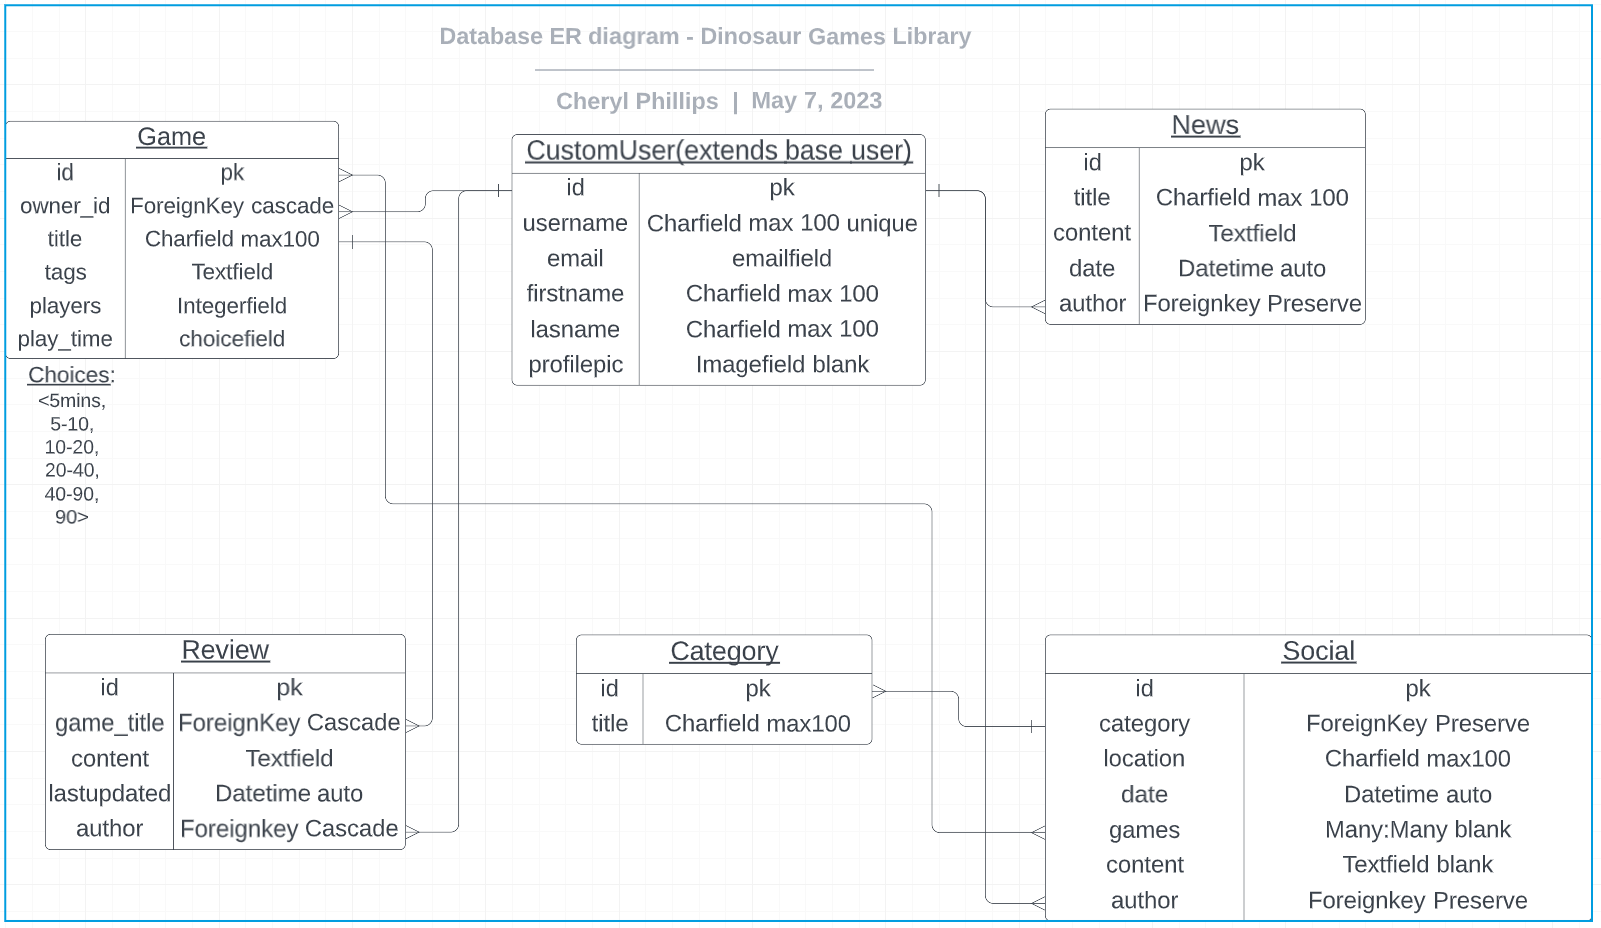
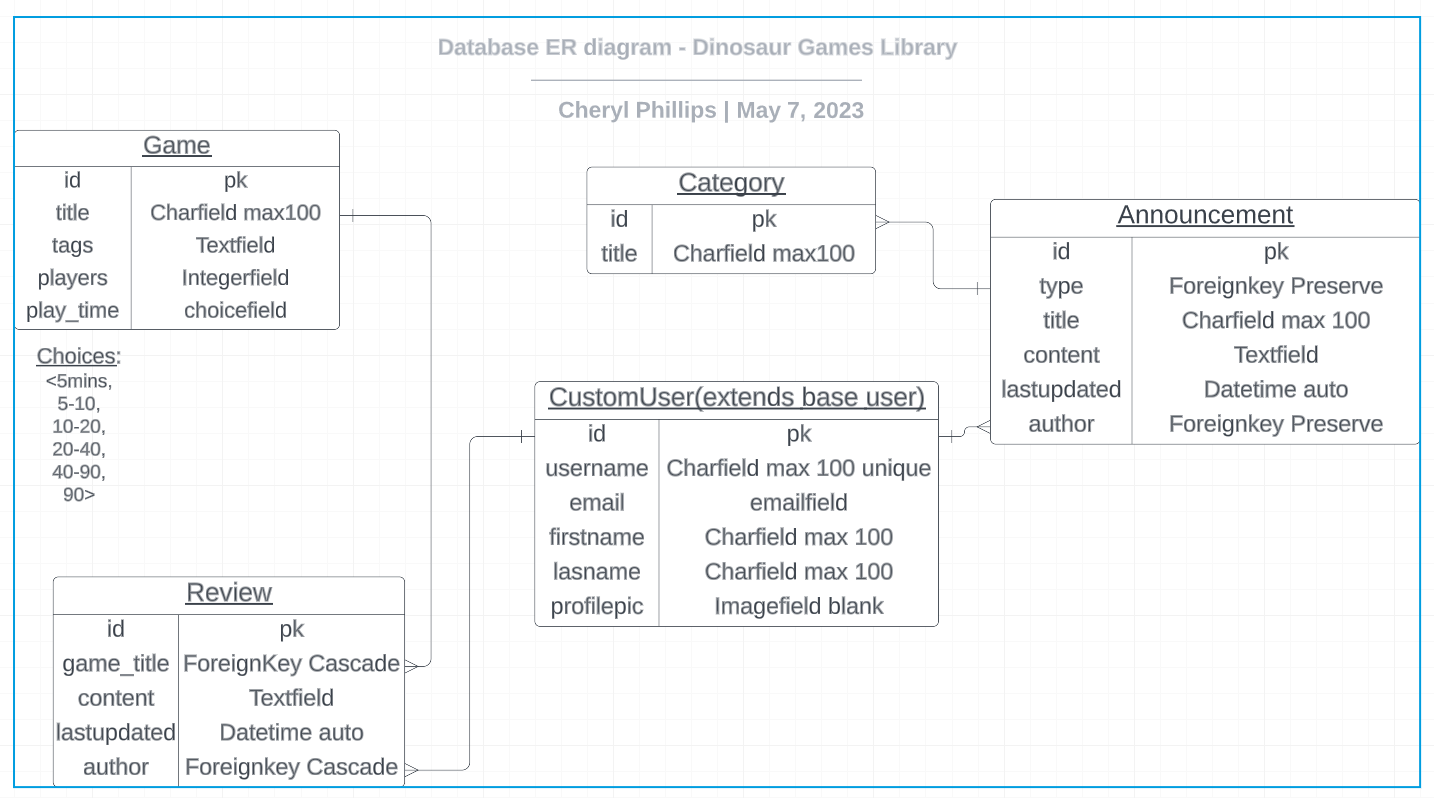
doc>explain changes to games permissions

diff --git a/README.md b/README.md
@@ -2,7 +2,8 @@
 
 ## Concept
 
-My local boardgames group meet each week with members bringing along their own games to share with the group. This can lead to sometimes a limited selection of games on offer, or not knowing which games other members have that the group would like to play. The Dinosaur Games Library app provides a solution to this by allowing members of the group to list the games that they own and are happy to share in an online library available for other members to view and search. Requests could then be made ahead of social events for particular games that the group would like to play to be brought along that week. Additional features of the app would allow admin users to advertise the group to visitors to the site and publicise social events to gain a wider membership, add important group updates to the front page as these can sometimes be missed in the Facebook group, and allow for an 'add to social' button for games to be automatically requested via the app at a particular social event.
+As a boardgame enthusiast, it can be hard to decide which game to try next. The Dinosaur Games Library will be a resource for the tabletop games community to add games that they have played and enjoyed to share their views with other gamers. Registered members will be able to post new games that they have found with details and reviews, visitors to the site will be able to view the library to find recommendations for games that they might enjoy playing. Administrators of the site will be able to delete any games from the listings that become out of print or are found to be duplicates.
+In addition to the games listings, announcements could also be made by the admin team detailing social events for gaming meet ups and news for the tabletop gaming community. 
 
 ## Scope
 
@@ -46,7 +47,7 @@ So I have followed the [rest-auth documentation](https://dj-rest-auth.readthedoc
 
 | Tasks this sprint | Sprint Overview |
 | ----------------- | --------------- |
-| Create Game model and serializers. Add views for create, update, delete, listview and detailed view. Create permissions for post owner. Expose endpoints for create, edit and delete game. Add search and filter for game features. | ![sprint2](/documentation/readme/sprint2.png) |
+| Create Game model and serializers. Add views for create and edit games, view all and view details. Delete view for administrators. | ![sprint2](/documentation/readme/sprint2.png) |
 
 ### The Game Model
 
@@ -54,25 +55,16 @@ This model will hold all member game instances. In a change from the planned ERD
 
 ### Viewing the library and creating a listing
 
-All authenticated members will be able to view the full list of games in the library as well as add their own. For this a single endpoint can be created using the generic `ListCreate` view with the permission class of `IsAuthenticated`. 
+All visitors will be able to view but make no changes to the full list of games in the library, authenticated members are able to add to the current list of games. For this a single endpoint can be created using the generic `ListCreate` view with the permission class of `IsAuthenticatedOrReadOnly`. 
 The serializer extends the standard model serializer class and imports the Game model and all model fields for serialization. 
 
-### Listing games owned by a member
+### Detailed view of games and editing as a member
 
-A second list view is included in the urls to filter owned games only. This endpoint uses a filtered queryset.
-```python
-    def get_queryset(self):
-        """
-        Override the standard query set and filter
-        """
-        user = self.request.user
-        return Game.objects.filter(owner=user)
-```
+This `RetrieveUpdate` endpoint can be accessed by all viewing the library to view a single record from the game table. The permission class of `IsAuthenticatedOrReadOnly` ensures that visitors can view the details they need safely whilst grating access to members to edit game data. As this is a community resource much like Wikipedia, updating of incorrect game details is available to all registered members of the library on a trust basis. 
 
-### Editing and deleting a game listing
+### Deleting a game as an administrator
 
-This endpoint is restricted to the owner of a game. A custom permission class was needed as DRF doesnt include this level of detail - I have used the example provided in the DRF documentation as a robust and working [example](https://www.django-rest-framework.org/api-guide/permissions/#examples)
-It makes use of the generic `RetrieveUpdateDestroyAPIView`. Filtering the query set is not necessary as authenticated members are able to view game details already. The custom permission class ensures that only the game owner can make any changes to the listing and so there is no need to make this view any more complicated. 
+Deletion of incorrectly added, duplicate and out of print games will be restricted to admin only. This `RetrieveUpdateDestroy` endpoint utilises the more robust permission class of `IsAdminUser` to ensure delete permissions are tightly controlled. 
 
 ### Filtering the games library
 
